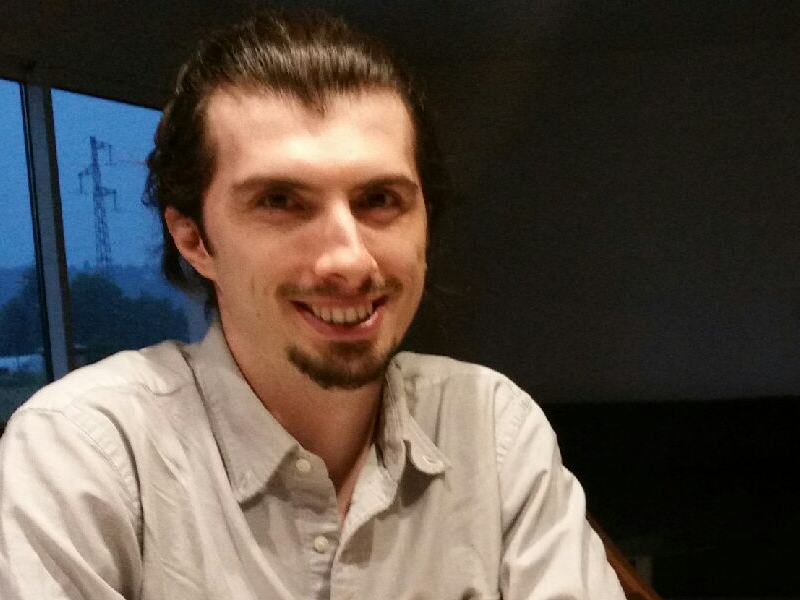
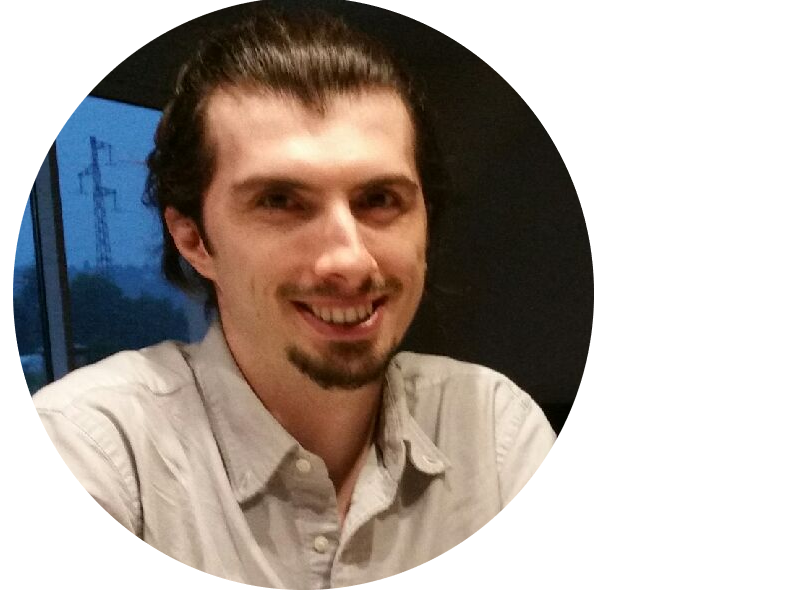
Corrected photo deformation error on safari.

diff --git a/src/components/AboutMe.js b/src/components/AboutMe.js
@@ -14,7 +14,7 @@ class AboutMe extends React.Component {
           <img 
             src={strings.content.myphoto.image} 
             alt={strings.content.myphoto.alt} 
-            className="mt-3 w-2/4 md:w-3/12 m-auto rounded-full xl:w-3/12 xl:ml-0 xl:flex-grow-0 xl:m-10" 
+            className="mt-3 w-2/4 h-full md:w-3/12 xl:w-3/12 xl:ml-0 xl:flex-grow-0 " 
             />
           <div className="flex flex-col text-center xl:text-left xl:leading-loose xl:self-center"> 
             <div className="my-name text-3xl">{strings.content.name}</div>

diff --git a/src/components/Contact.js b/src/components/Contact.js
@@ -18,7 +18,7 @@ class Contact extends React.Component {
 							key={index} 
 							className="pr-3 pt-3 pb-3 flex">
 							<img 
-                className="inline-block w-auto m-auto p-1 h-10"
+                className="inline-block w-auto m-auto h-10"
 								src={contactmethod.logo} alt={contactmethod.alt} 
 								/>
 							<div 
